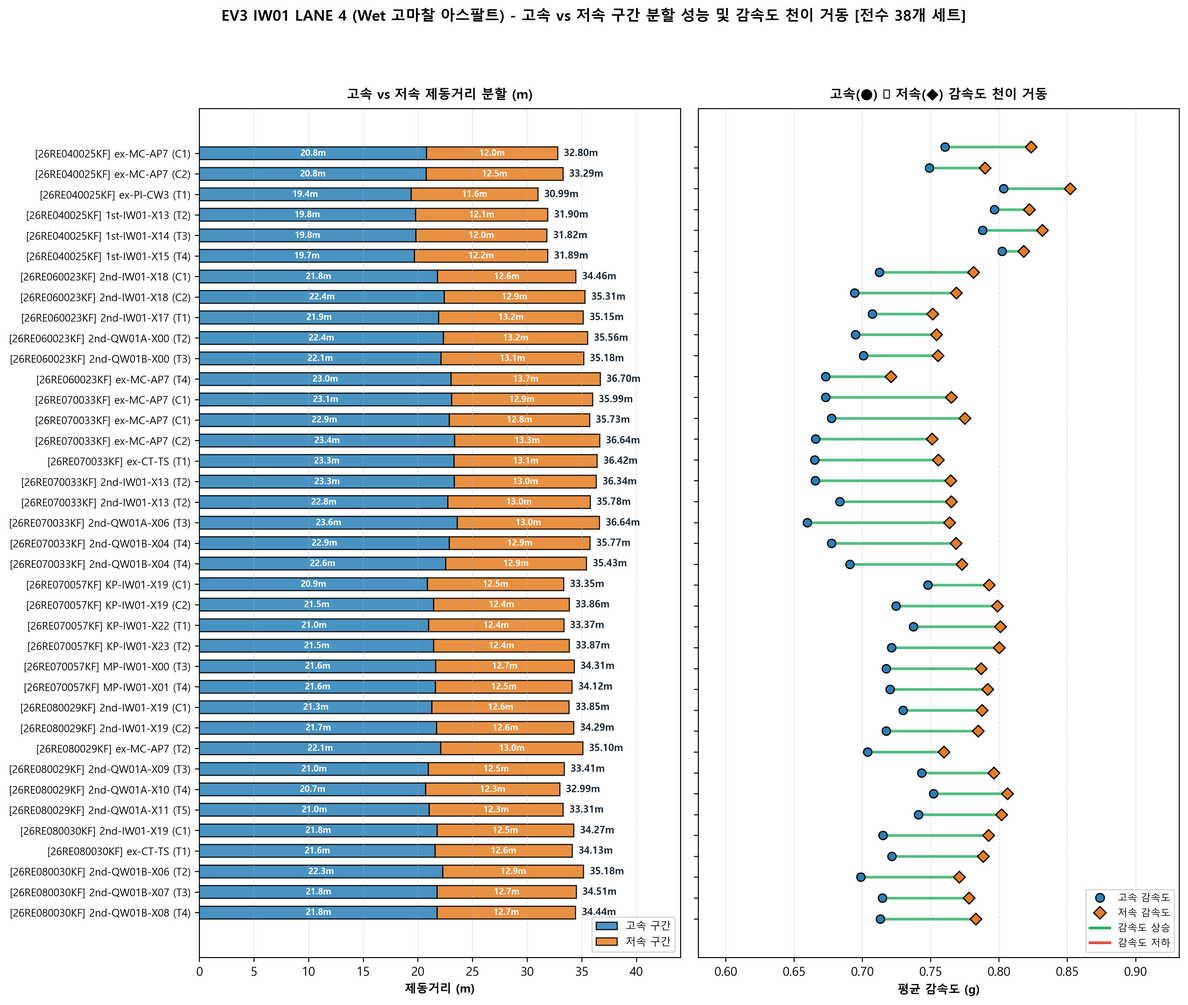
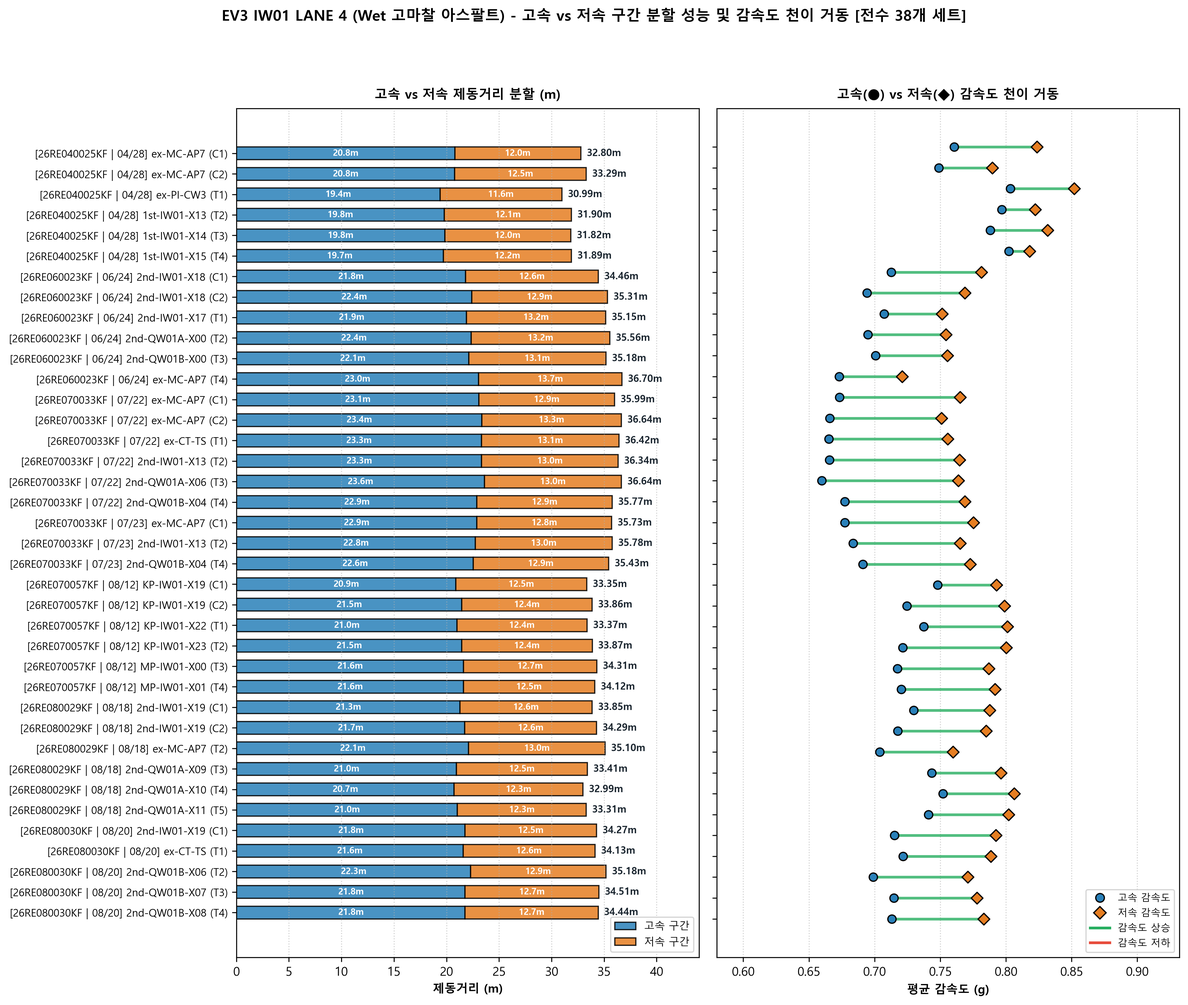
vault backup: 2026-09-16 20:26:07

diff --git a/02_Projects/회사_업무/10_Braking_AutoBuild/10_EV3_IW01_Integrated_Braking_Analysis_Report.md b/02_Projects/회사_업무/10_Braking_AutoBuild/10_EV3_IW01_Integrated_Braking_Analysis_Report.md
@@ -23,7 +23,7 @@ project_link: "[[02_Projects/회사_업무/10_Braking_AutoBuild/00_Braking_AutoB
 # 🚗 EV3 IW01 실차 제동 성능 종합 공학 분석 마스터 리포트
 ### Engineering Whitepaper: Surface Separation, Control Baseline, Temperature Sensitivity & Anchor Recalibration
 
-> **보고서 생성일시**: `2026-09-16 19:36` | **분석 프로젝트**: `EV3 IW01 제동 평가 (2026)`  
+> **보고서 생성일시**: `2026-09-16 20:22` | **분석 프로젝트**: `EV3 IW01 제동 평가 (2026)`  
 > **시험 차량**: `기아 EV3 (FF Layout / EV)` | **시험 장소**: `TR 실차 주행시험장`  
 > **평가 노면**: `Wet (Lane 1, Lane 4)` / `Dry (Lane 7, Lane 8)` | **분석 데이터셋**: 총 97회차 평가 데이터
 
@@ -1069,73 +1069,87 @@ project_link: "[[02_Projects/회사_업무/10_Braking_AutoBuild/00_Braking_AutoB
 * 따라서 Mu-Drop은 보정치 대신 '실측 손실 거리(mudrop_dist, m)'와 '제동거리 대비 손실 비중(%)' 2개 지표로 절대 평가하는 것이 엔지니어링 신뢰성을 확보하는 유일한 방안입니다.
 
 ### 10.2. 노면별 타이어 스펙 Mu-Drop 손실거리 및 왜곡 진단 요약표
-| 레인 | 의뢰번호 | 세트 | 타이어 표기 (몰드-패턴-마킹) | 스펙 | 총거리(m) | 실측손실(m) | 손실비율(%) | 천이속도(km/h) | 고속감속(g) | 저속감속(g) | 보정손실(m) | 지수(%) | 왜곡판정 |
-| :--- | :--- | :--- | :--- | :--- | ---: | ---: | ---: | ---: | ---: | ---: | ---: | ---: | :--- |
-| lane4 | 26RE040025KF | C1 | ex-MC-AP7 | EXT-2026-00147 | 32.80 | 2.15 | 6.56 | 40.33 | 0.76 | 0.84 | 1.84 | 100.00 | NORMAL |
-| lane4 | 26RE040025KF | C2 | ex-MC-AP7 | EXT-2026-00147 | 33.29 | 1.52 | 4.58 | 41.58 | 0.75 | 0.80 | 1.84 | 100.00 | NORMAL |
-| lane4 | 26RE040025KF | T1 | ex-PI-CW3 | EXT-2026-00148 | 30.99 | 1.56 | 5.03 | 40.38 | 0.81 | 0.86 | 1.42 | 122.96 | NORMAL |
-| lane4 | 26RE040025KF | T2 | 1st-IW01-X13 | KPKT1033338X00013 | 31.90 | 1.37 | 4.29 | 39.63 | 0.79 | 0.84 | 1.32 | 127.89 | NORMAL |
-| lane4 | 26RE040025KF | T3 | 1st-IW01-X14 | KPKT1033338X00014 | 31.82 | 1.98 | 6.22 | 37.85 | 0.78 | 0.85 | 2.05 | 88.45 | NORMAL |
-| lane4 | 26RE040025KF | T4 | 1st-IW01-X15 | KPKT1033338X00015 | 31.89 | 1.43 | 4.48 | 39.01 | 0.79 | 0.84 | 1.59 | 113.33 | NORMAL |
-| lane8 | 26RE040025KF | C1 | ex-MC-AP7 | EXT-2026-00147 | 43.51 | 0.00 | 0.00 | 49.43 | 0.92 | 0.89 | 0.00 | 100.00 | NORMAL |
-| lane8 | 26RE040025KF | C2 | ex-MC-AP7 | EXT-2026-00147 | 43.60 | 0.00 | 0.00 | 50.40 | 0.92 | 0.91 | 0.00 | 100.00 | NORMAL |
-| lane8 | 26RE040025KF | T1 | ex-PI-CW3 | EXT-2026-00148 | 43.52 | 0.00 | 0.00 | 50.20 | 0.91 | 0.91 | 0.00 | 100.00 | NORMAL |
-| lane8 | 26RE040025KF | T2 | 1st-IW01-X13 | KPKT1033338X00013 | 44.55 | 0.00 | 0.00 | 50.42 | 0.90 | 0.88 | 0.00 | 100.00 | NORMAL |
-| lane8 | 26RE040025KF | T3 | 1st-IW01-X14 | KPKT1033338X00014 | 44.50 | 0.02 | 0.04 | 49.70 | 0.89 | 0.89 | - | -inf | FATAL_DIV_ZERO |
-| lane8 | 26RE040025KF | T4 | 1st-IW01-X15 | KPKT1033338X00015 | 44.65 | 0.00 | 0.00 | 50.02 | 0.90 | 0.88 | 0.00 | 100.00 | NORMAL |
-| lane4 | 26RE060023KF | C1 | 2nd-IW01-X18 | KPKT1033338X00018 | 34.46 | 2.15 | 6.24 | 45.86 | 0.71 | 0.79 | 2.31 | 100.00 | NORMAL |
-| lane4 | 26RE060023KF | C2 | 2nd-IW01-X18 | KPKT1033338X00018 | 35.31 | 2.48 | 7.02 | 46.82 | 0.69 | 0.77 | 2.31 | 100.00 | NORMAL |
-| lane4 | 26RE060023KF | T1 | 2nd-IW01-X17 | KPKT1033338X00017 | 35.15 | 1.94 | 5.52 | 43.99 | 0.70 | 0.76 | 2.03 | 112.45 | NORMAL |
-| lane4 | 26RE060023KF | T2 | 2nd-QW01A-X00 | KPKT1039979X00000 | 35.56 | 2.32 | 6.53 | 44.90 | 0.69 | 0.76 | 2.35 | 98.33 | NORMAL |
-| lane4 | 26RE060023KF | T3 | 2nd-QW01B-X00 | KPKT1039980X00000 | 35.18 | 2.03 | 5.77 | 43.64 | 0.70 | 0.76 | 2.00 | 113.54 | NORMAL |
-| lane4 | 26RE060023KF | T4 | ex-MC-AP7 | EXT-2026-00147 | 36.70 | 1.67 | 4.55 | 45.24 | 0.68 | 0.72 | 1.60 | 130.82 | NORMAL |
-| lane8 | 26RE060023KF | C1 | 2nd-IW01-X18 | KPKT1033338X00018 | 47.63 | 1.06 | 2.23 | 50.19 | 0.83 | 0.85 | 1.06 | 100.00 | NORMAL |
-| lane8 | 26RE060023KF | T1 | 2nd-IW01-X17 | KPKT1033338X00017 | 47.89 | 1.00 | 2.09 | 48.69 | 0.82 | 0.85 | 1.00 | 105.66 | NORMAL |
-| lane8 | 26RE060023KF | T2 | 2nd-QW01A-X00 | KPKT1039979X00000 | 48.15 | 1.00 | 2.08 | 50.00 | 0.82 | 0.84 | 1.00 | 105.66 | NORMAL |
-| lane8 | 26RE060023KF | T3 | 2nd-QW01B-X00 | KPKT1039980X00000 | 47.66 | 0.00 | 0.00 | 50.86 | 0.83 | 0.83 | 0.00 | 200.00 | NORMAL |
-| lane8 | 26RE060023KF | T4 | ex-MC-AP7 | EXT-2026-00147 | 47.07 | 0.32 | 0.67 | 50.47 | 0.84 | 0.85 | 0.31 | 170.28 | NORMAL |
-| lane1 | 26RE070033KF | C1 | ex-MC-AP7 | EXT-2026-00147 | 31.01 | 1.54 | 4.97 | 48.57 | 0.79 | 0.86 | 1.88 | 100.00 | NORMAL |
-| lane1 | 26RE070033KF | C1 | ex-MC-AP7 | EXT-2026-00147 | 31.01 | 1.54 | 4.97 | 48.57 | 0.79 | 0.86 | 1.88 | 100.00 | NORMAL |
-| lane1 | 26RE070033KF | T1 | ex-CT-TS | EXT-2024-00280 | 31.74 | 1.72 | 5.42 | 50.31 | 0.77 | 0.85 | 1.93 | 97.37 | NORMAL |
-| lane1 | 26RE070033KF | T2 | 2nd-IW01-X13 | KPKT1033338X00013 | 30.64 | 1.72 | 5.61 | 46.63 | 0.81 | 0.88 | 1.78 | 105.08 | NORMAL |
-| lane1 | 26RE070033KF | T2 | 2nd-IW01-X13 | KPKT1033338X00013 | 30.64 | 1.72 | 5.61 | 46.63 | 0.81 | 0.88 | 1.78 | 105.08 | NORMAL |
-| lane1 | 26RE070033KF | T3 | 2nd-QW01A-X06 | KPKT1039979X00006 | 30.88 | 1.61 | 5.21 | 46.68 | 0.80 | 0.87 | 1.55 | 117.35 | NORMAL |
-| lane1 | 26RE070033KF | T4 | 2nd-QW01B-X04 | KPKT1039980X00004 | 29.73 | 1.13 | 3.80 | 43.41 | 0.84 | 0.89 | 1.02 | 145.78 | NORMAL |
-| lane1 | 26RE070033KF | T4 | 2nd-QW01B-X04 | KPKT1039980X00004 | 29.73 | 1.13 | 3.80 | 43.41 | 0.84 | 0.89 | 1.02 | 145.78 | NORMAL |
-| lane1 | 26RE070033KF | C2 | ex-MC-AP7 | EXT-2026-00147 | 31.78 | 2.22 | 6.99 | 48.52 | 0.77 | 0.86 | 1.88 | 100.00 | NORMAL |
-| lane4 | 26RE070033KF | C1 | ex-MC-AP7 | EXT-2026-00147 | 35.99 | 2.71 | 7.54 | 49.09 | 0.68 | 0.77 | 2.86 | 100.00 | NORMAL |
-| lane4 | 26RE070033KF | C1 | ex-MC-AP7 | EXT-2026-00147 | 35.99 | 2.71 | 7.54 | 49.09 | 0.68 | 0.77 | 2.86 | 100.00 | NORMAL |
-| lane4 | 26RE070033KF | T1 | ex-CT-TS | EXT-2024-00280 | 36.42 | 2.79 | 7.66 | 51.91 | 0.66 | 0.76 | 2.88 | 99.46 | NORMAL |
-| lane4 | 26RE070033KF | T2 | 2nd-IW01-X13 | KPKT1033338X00013 | 36.34 | 3.00 | 8.26 | 49.24 | 0.67 | 0.77 | 3.03 | 94.18 | NORMAL |
-| lane4 | 26RE070033KF | T2 | 2nd-IW01-X13 | KPKT1033338X00013 | 36.34 | 3.00 | 8.26 | 49.24 | 0.67 | 0.77 | 3.03 | 94.18 | NORMAL |
-| lane4 | 26RE070033KF | T3 | 2nd-QW01A-X06 | KPKT1039979X00006 | 36.64 | 3.61 | 9.85 | 39.55 | 0.68 | 0.78 | 3.57 | 75.30 | NORMAL |
-| lane4 | 26RE070033KF | T4 | 2nd-QW01B-X04 | KPKT1039980X00004 | 35.77 | 2.82 | 7.88 | 48.17 | 0.68 | 0.77 | 2.73 | 104.57 | NORMAL |
-| lane4 | 26RE070033KF | T4 | 2nd-QW01B-X04 | KPKT1039980X00004 | 35.77 | 2.82 | 7.88 | 48.17 | 0.68 | 0.77 | 2.73 | 104.57 | NORMAL |
-| lane4 | 26RE070033KF | C2 | ex-MC-AP7 | EXT-2026-00147 | 36.64 | 3.01 | 8.23 | 41.80 | 0.67 | 0.76 | 2.86 | 100.00 | NORMAL |
-| lane7 | 26RE070033KF | C1 | ex-MC-AP7 | EXT-2026-00147 | 47.77 | 2.58 | 5.40 | 50.63 | 0.81 | 0.88 | 2.47 | 100.00 | NORMAL |
-| lane7 | 26RE070033KF | T1 | ex-CT-TS | EXT-2024-00280 | 48.26 | 2.20 | 4.56 | 51.45 | 0.81 | 0.86 | 2.14 | 113.18 | NORMAL |
-| lane7 | 26RE070033KF | T2 | 2nd-IW01-X13 | KPKT1033338X00013 | 47.92 | 1.98 | 4.13 | 52.55 | 0.81 | 0.86 | 1.96 | 120.42 | NORMAL |
-| lane7 | 26RE070033KF | T3 | 2nd-QW01A-X06 | KPKT1039979X00006 | 48.64 | 2.25 | 4.63 | 51.01 | 0.80 | 0.85 | 2.27 | 107.86 | NORMAL |
-| lane7 | 26RE070033KF | T4 | 2nd-QW01B-X04 | KPKT1039980X00004 | 48.37 | 1.79 | 3.70 | 52.29 | 0.81 | 0.85 | 1.84 | 125.29 | NORMAL |
-| lane7 | 26RE070033KF | C2 | ex-MC-AP7 | EXT-2026-00147 | 47.93 | 2.35 | 4.90 | 53.89 | 0.81 | 0.87 | 2.47 | 100.00 | NORMAL |
-| lane1 | 26RE070033KF | C1 | ex-MC-AP7 | EXT-2026-00147 | 32.05 | 2.53 | 7.89 | 38.90 | 0.77 | 0.86 | 2.53 | 100.00 | NORMAL |
-| lane1 | 26RE070033KF | C1 | ex-MC-AP7 | EXT-2026-00147 | 32.05 | 2.53 | 7.89 | 38.90 | 0.77 | 0.86 | 2.53 | 100.00 | NORMAL |
-| lane1 | 26RE070033KF | T2 | 2nd-IW01-X13 | KPKT1033338X00013 | 31.28 | 1.62 | 5.18 | 44.93 | 0.80 | 0.86 | 1.62 | 135.97 | NORMAL |
-| ... 외 59건 생략 | ... | ... | ... | ... | ... | ... | ... | ... | ... | ... | ... | ... | ... |
+| 레인 | 의뢰번호 | 시험일자 | 세트 | 타이어 표기 (몰드-패턴-마킹) | 스펙 | 총거리(m) | 실측손실(m) | 손실비율(%) | 천이속도(km/h) | 고속감속(g) | 저속감속(g) | 보정손실(m) | 지수(%) | 왜곡판정 |
+| :--- | :--- | :--- | :--- | :--- | :--- | ---: | ---: | ---: | ---: | ---: | ---: | ---: | ---: | :--- |
+| lane4 | 26RE040025KF | 04/28 | C1 | ex-MC-AP7 | EXT-2026-00147 | 32.80 | 2.15 | 6.56 | 40.33 | 0.76 | 0.84 | 1.84 | 100.00 | NORMAL |
+| lane4 | 26RE040025KF | 04/28 | C2 | ex-MC-AP7 | EXT-2026-00147 | 33.29 | 1.52 | 4.58 | 41.58 | 0.75 | 0.80 | 1.84 | 100.00 | NORMAL |
+| lane4 | 26RE040025KF | 04/28 | T1 | ex-PI-CW3 | EXT-2026-00148 | 30.99 | 1.56 | 5.03 | 40.38 | 0.81 | 0.86 | 1.42 | 122.96 | NORMAL |
+| lane4 | 26RE040025KF | 04/28 | T2 | 1st-IW01-X13 | KPKT1033338X00013 | 31.90 | 1.37 | 4.29 | 39.63 | 0.79 | 0.84 | 1.32 | 127.89 | NORMAL |
+| lane4 | 26RE040025KF | 04/28 | T3 | 1st-IW01-X14 | KPKT1033338X00014 | 31.82 | 1.98 | 6.22 | 37.85 | 0.78 | 0.85 | 2.05 | 88.45 | NORMAL |
+| lane4 | 26RE040025KF | 04/28 | T4 | 1st-IW01-X15 | KPKT1033338X00015 | 31.89 | 1.43 | 4.48 | 39.01 | 0.79 | 0.84 | 1.59 | 113.33 | NORMAL |
+| lane8 | 26RE040025KF | 04/29 | C1 | ex-MC-AP7 | EXT-2026-00147 | 43.51 | 0.00 | 0.00 | 49.43 | 0.92 | 0.89 | 0.00 | 100.00 | NORMAL |
+| lane8 | 26RE040025KF | 04/29 | C2 | ex-MC-AP7 | EXT-2026-00147 | 43.60 | 0.00 | 0.00 | 50.40 | 0.92 | 0.91 | 0.00 | 100.00 | NORMAL |
+| lane8 | 26RE040025KF | 04/29 | T1 | ex-PI-CW3 | EXT-2026-00148 | 43.52 | 0.00 | 0.00 | 50.20 | 0.91 | 0.91 | 0.00 | 100.00 | NORMAL |
+| lane8 | 26RE040025KF | 04/29 | T2 | 1st-IW01-X13 | KPKT1033338X00013 | 44.55 | 0.00 | 0.00 | 50.42 | 0.90 | 0.88 | 0.00 | 100.00 | NORMAL |
+| lane8 | 26RE040025KF | 04/29 | T3 | 1st-IW01-X14 | KPKT1033338X00014 | 44.50 | 0.02 | 0.04 | 49.70 | 0.89 | 0.89 | - | -inf | FATAL_DIV_ZERO |
+| lane8 | 26RE040025KF | 04/29 | T4 | 1st-IW01-X15 | KPKT1033338X00015 | 44.65 | 0.00 | 0.00 | 50.02 | 0.90 | 0.88 | 0.00 | 100.00 | NORMAL |
+| lane4 | 26RE060023KF | 06/24 | C1 | 2nd-IW01-X18 | KPKT1033338X00018 | 34.46 | 2.15 | 6.24 | 45.86 | 0.71 | 0.79 | 2.31 | 100.00 | NORMAL |
+| lane4 | 26RE060023KF | 06/24 | C2 | 2nd-IW01-X18 | KPKT1033338X00018 | 35.31 | 2.48 | 7.02 | 46.82 | 0.69 | 0.77 | 2.31 | 100.00 | NORMAL |
+| lane4 | 26RE060023KF | 06/24 | T1 | 2nd-IW01-X17 | KPKT1033338X00017 | 35.15 | 1.94 | 5.52 | 43.99 | 0.70 | 0.76 | 2.03 | 112.45 | NORMAL |
+| lane4 | 26RE060023KF | 06/24 | T2 | 2nd-QW01A-X00 | KPKT1039979X00000 | 35.56 | 2.32 | 6.53 | 44.90 | 0.69 | 0.76 | 2.35 | 98.33 | NORMAL |
+| lane4 | 26RE060023KF | 06/24 | T3 | 2nd-QW01B-X00 | KPKT1039980X00000 | 35.18 | 2.03 | 5.77 | 43.64 | 0.70 | 0.76 | 2.00 | 113.54 | NORMAL |
+| lane4 | 26RE060023KF | 06/24 | T4 | ex-MC-AP7 | EXT-2026-00147 | 36.70 | 1.67 | 4.55 | 45.24 | 0.68 | 0.72 | 1.60 | 130.82 | NORMAL |
+| lane8 | 26RE060023KF | 06/25 | C1 | 2nd-IW01-X18 | KPKT1033338X00018 | 47.63 | 1.06 | 2.23 | 50.19 | 0.83 | 0.85 | 1.06 | 100.00 | NORMAL |
+| lane8 | 26RE060023KF | 06/25 | T1 | 2nd-IW01-X17 | KPKT1033338X00017 | 47.89 | 1.00 | 2.09 | 48.69 | 0.82 | 0.85 | 1.00 | 105.66 | NORMAL |
+| lane8 | 26RE060023KF | 06/25 | T2 | 2nd-QW01A-X00 | KPKT1039979X00000 | 48.15 | 1.00 | 2.08 | 50.00 | 0.82 | 0.84 | 1.00 | 105.66 | NORMAL |
+| lane8 | 26RE060023KF | 06/25 | T3 | 2nd-QW01B-X00 | KPKT1039980X00000 | 47.66 | 0.00 | 0.00 | 50.86 | 0.83 | 0.83 | 0.00 | 200.00 | NORMAL |
+| lane8 | 26RE060023KF | 06/25 | T4 | ex-MC-AP7 | EXT-2026-00147 | 47.07 | 0.32 | 0.67 | 50.47 | 0.84 | 0.85 | 0.31 | 170.28 | NORMAL |
+| lane1 | 26RE070033KF | 07/22 | C1 | ex-MC-AP7 | EXT-2026-00147 | 31.01 | 1.54 | 4.97 | 48.57 | 0.79 | 0.86 | 1.88 | 100.00 | NORMAL |
+| lane1 | 26RE070033KF | 07/22 | T1 | ex-CT-TS | EXT-2024-00280 | 31.74 | 1.72 | 5.42 | 50.31 | 0.77 | 0.85 | 1.93 | 97.37 | NORMAL |
+| lane1 | 26RE070033KF | 07/22 | T2 | 2nd-IW01-X13 | KPKT1033338X00013 | 30.64 | 1.72 | 5.61 | 46.63 | 0.81 | 0.88 | 1.78 | 105.08 | NORMAL |
+| lane1 | 26RE070033KF | 07/22 | T3 | 2nd-QW01A-X06 | KPKT1039979X00006 | 30.88 | 1.61 | 5.21 | 46.68 | 0.80 | 0.87 | 1.55 | 117.35 | NORMAL |
+| lane1 | 26RE070033KF | 07/22 | T4 | 2nd-QW01B-X04 | KPKT1039980X00004 | 29.73 | 1.13 | 3.80 | 43.41 | 0.84 | 0.89 | 1.02 | 145.78 | NORMAL |
+| lane1 | 26RE070033KF | 07/22 | C2 | ex-MC-AP7 | EXT-2026-00147 | 31.78 | 2.22 | 6.99 | 48.52 | 0.77 | 0.86 | 1.88 | 100.00 | NORMAL |
+| lane4 | 26RE070033KF | 07/22 | C1 | ex-MC-AP7 | EXT-2026-00147 | 35.99 | 2.71 | 7.54 | 49.09 | 0.68 | 0.77 | 2.86 | 100.00 | NORMAL |
+| lane4 | 26RE070033KF | 07/22 | T1 | ex-CT-TS | EXT-2024-00280 | 36.42 | 2.79 | 7.66 | 51.91 | 0.66 | 0.76 | 2.88 | 99.46 | NORMAL |
+| lane4 | 26RE070033KF | 07/22 | T2 | 2nd-IW01-X13 | KPKT1033338X00013 | 36.34 | 3.00 | 8.26 | 49.24 | 0.67 | 0.77 | 3.03 | 94.18 | NORMAL |
+| lane4 | 26RE070033KF | 07/22 | T3 | 2nd-QW01A-X06 | KPKT1039979X00006 | 36.64 | 3.61 | 9.85 | 39.55 | 0.68 | 0.78 | 3.57 | 75.30 | NORMAL |
+| lane4 | 26RE070033KF | 07/22 | T4 | 2nd-QW01B-X04 | KPKT1039980X00004 | 35.77 | 2.82 | 7.88 | 48.17 | 0.68 | 0.77 | 2.73 | 104.57 | NORMAL |
+| lane4 | 26RE070033KF | 07/22 | C2 | ex-MC-AP7 | EXT-2026-00147 | 36.64 | 3.01 | 8.23 | 41.80 | 0.67 | 0.76 | 2.86 | 100.00 | NORMAL |
+| lane7 | 26RE070033KF | 07/23 | C1 | ex-MC-AP7 | EXT-2026-00147 | 47.77 | 2.58 | 5.40 | 50.63 | 0.81 | 0.88 | 2.47 | 100.00 | NORMAL |
+| lane7 | 26RE070033KF | 07/23 | T1 | ex-CT-TS | EXT-2024-00280 | 48.26 | 2.20 | 4.56 | 51.45 | 0.81 | 0.86 | 2.14 | 113.18 | NORMAL |
+| lane7 | 26RE070033KF | 07/23 | T2 | 2nd-IW01-X13 | KPKT1033338X00013 | 47.92 | 1.98 | 4.13 | 52.55 | 0.81 | 0.86 | 1.96 | 120.42 | NORMAL |
+| lane7 | 26RE070033KF | 07/23 | T3 | 2nd-QW01A-X06 | KPKT1039979X00006 | 48.64 | 2.25 | 4.63 | 51.01 | 0.80 | 0.85 | 2.27 | 107.86 | NORMAL |
+| lane7 | 26RE070033KF | 07/23 | T4 | 2nd-QW01B-X04 | KPKT1039980X00004 | 48.37 | 1.79 | 3.70 | 52.29 | 0.81 | 0.85 | 1.84 | 125.29 | NORMAL |
+| lane7 | 26RE070033KF | 07/23 | C2 | ex-MC-AP7 | EXT-2026-00147 | 47.93 | 2.35 | 4.90 | 53.89 | 0.81 | 0.87 | 2.47 | 100.00 | NORMAL |
+| lane1 | 26RE070033KF | 07/23 | C1 | ex-MC-AP7 | EXT-2026-00147 | 32.05 | 2.53 | 7.89 | 38.90 | 0.77 | 0.86 | 2.53 | 100.00 | NORMAL |
+| lane1 | 26RE070033KF | 07/23 | T2 | 2nd-IW01-X13 | KPKT1033338X00013 | 31.28 | 1.62 | 5.18 | 44.93 | 0.80 | 0.86 | 1.62 | 135.97 | NORMAL |
+| lane1 | 26RE070033KF | 07/23 | T4 | 2nd-QW01B-X04 | KPKT1039980X00004 | 30.62 | 1.30 | 4.25 | 43.33 | 0.81 | 0.86 | 1.30 | 148.62 | NORMAL |
+| lane4 | 26RE070033KF | 07/23 | C1 | ex-MC-AP7 | EXT-2026-00147 | 35.73 | 2.87 | 8.03 | 49.94 | 0.68 | 0.78 | 2.87 | 100.00 | NORMAL |
+| lane4 | 26RE070033KF | 07/23 | T2 | 2nd-IW01-X13 | KPKT1033338X00013 | 35.78 | 3.03 | 8.47 | 38.03 | 0.69 | 0.78 | 3.03 | 94.43 | NORMAL |
+| lane4 | 26RE070033KF | 07/23 | T4 | 2nd-QW01B-X04 | KPKT1039980X00004 | 35.43 | 2.58 | 7.27 | 46.43 | 0.69 | 0.78 | 2.58 | 110.28 | NORMAL |
+| lane1 | 26RE070057KF | 08/12 | C1 | KP-IW01-X19 | KPKT1033338X00019 | 29.03 | 1.53 | 5.27 | 47.21 | 0.85 | 0.93 | 1.64 | 100.00 | NORMAL |
+| lane1 | 26RE070057KF | 08/12 | T1 | KP-IW01-X22 | KPKT1033338X00022 | 29.65 | 1.81 | 6.10 | 45.77 | 0.83 | 0.92 | 1.87 | 85.68 | NORMAL |
+| lane1 | 26RE070057KF | 08/12 | T2 | KP-IW01-X23 | KPKT1033338X00023 | 30.49 | 1.56 | 5.13 | 45.72 | 0.81 | 0.88 | 1.56 | 104.38 | NORMAL |
+| ... 외 47건 생략 | ... | ... | ... | ... | ... | ... | ... | ... | ... | ... | ... | ... | ... | ... |
 
 
-### 10.3. 노면별 타이어 스펙 Mu-Drop 손실거리 및 비중 비교 차트 (노면별 분리)
-#### 📊 Lane 1 (Wet 저마찰 아스팔트) Mu-Drop 분석
+### 10.3. 노면별 타이어 스펙 Mu-Drop 실측 vs 보정 차트 (노면별 분리)
+#### 10.3.1 타이어별 Mu-Drop 실측 손실거리(m) 및 제동거리 대비 손실 비중(%) [전수]
+##### 📊 Lane 1 (Wet 저마찰 아스팔트) 실측 손실거리
 ![[08_01_MuDrop_Analysis_lane1.png]]
 
-#### 📊 Lane 4 (Wet 고마찰 아스팔트) Mu-Drop 분석
-![[08_02_MuDrop_Analysis_lane4.png]]
+##### 📊 Lane 4 (Wet 고마찰 아스팔트) 실측 손실거리
+![[08_01_MuDrop_Analysis_lane4.png]]
 
-#### 📊 Lane 7 (Dry 아스팔트) Mu-Drop 분석
-![[08_03_MuDrop_Analysis_lane7.png]]
+##### 📊 Lane 7 (Dry 아스팔트) 실측 손실거리
+![[08_01_MuDrop_Analysis_lane7.png]]
 
-#### 📊 Lane 8 (Dry) Mu-Drop 분석
-![[08_04_MuDrop_Analysis_lane8.png]]
+##### 📊 Lane 8 (Dry) 실측 손실거리
+![[08_01_MuDrop_Analysis_lane8.png]]
+
+#### 10.3.2 타이어별 Mu-Drop Method A 보정 손실거리(m) 및 성능 지수(%) [전수]
+##### 📊 Lane 1 (Wet 저마찰 아스팔트) 보정 손실거리
+![[08_02_MuDrop_Corr_lane1.png]]
+
+##### 📊 Lane 4 (Wet 고마찰 아스팔트) 보정 손실거리
+![[08_02_MuDrop_Corr_lane4.png]]
+
+##### 📊 Lane 7 (Dry 아스팔트) 보정 손실거리
+![[08_02_MuDrop_Corr_lane7.png]]
+
+##### 📊 Lane 8 (Dry) 보정 손실거리
+![[08_02_MuDrop_Corr_lane8.png]]
 
 ---
 

diff --git a/02_Projects/회사_업무/20_unoUtil_모듈개발/fileDataReader/DWDataReader_v5_0_8/dwdReader.md b/02_Projects/회사_업무/20_unoUtil_모듈개발/fileDataReader/DWDataReader_v5_0_8/dwdReader.md
@@ -1,0 +1,117 @@
+# 🔬 Dewesoft D7D C-DLL 연동 및 비동기 정합 엔진: `dwdReader`
+
+본 문서는 Dewesoft 사의 고속 계측 포맷인 `.d7d` 바이너리 파일을 순수 Python 환경에서 네이티브 C-DLL(`DWDataReaderLib64.dll`)을 통해 초고속으로 디코딩하고, 동기(Sync)/비동기(Async CAN/GPS) 채널 간 시간축을 정밀하게 격자화(Grid-Alignment)하는 `dwdReader` 엔진의 내부 아키텍처 및 상세 API 레퍼런스입니다.
+
+> **소속 모듈**: `unoUtil.fileDataReader.DWDataReader_v5_0_8.dwdReader`  
+> **상위 인터페이스**: [[FileDataReader]] (`DWDParser`)  
+> **관련 영구 지식**: [[23_이종_계측_데이터_통합_파이프라인_및_대규모_마이그레이션_엔지니어링]], [[20_VBOX_계측_데이터_규격_및_GPS좌표계]]
+
+---
+
+## 1. 🏛 시스템 아키텍처 및 동작 원리
+
+Dewesoft `.d7d` 파일은 아날로그 가속도/하중 센서와 같은 **고속 동기 채널(Sync Channel, 통상 100~2000Hz)**과 차량 CAN 버스 또는 외장 GPS와 같은 **저속/가변 비동기 채널(Async Channel, 통상 10~100Hz)**이 하나의 파일에 혼합 저장됩니다.
+
+```mermaid
+flowchart TD
+    D7D[Dewesoft .d7d 파일] --> DWD["dwdRead(file_path)"]
+    
+    subgraph CDLL_Engine [1. C-DLL 네이티브 I/O 계층]
+        DWD --> INIT["DWICreateReader() & DWIOpenDataFile()"]
+        INIT --> META["채널 리스트 & 프로퍼티 파싱 (DWChannel)"]
+        META --> SAMPLES["DWIGetScaledSamplesCount() & DWIGetScaledSamples()"]
+    end
+
+    subgraph Channel_Demux [2. 동기 / 비동기 채널 분기]
+        SAMPLES --> SYNC["동기 채널 (Sync: DW_CH_TYPE_SYNC)"]
+        SAMPLES --> ASYNC["비동기 채널 (Async: DW_CH_TYPE_ASYNC)"]
+    end
+
+    subgraph Temporal_Grid [3. 시간축 동기화 및 격자 정합]
+        SYNC --> BASE_TIME["기준 타임라인 (dt = 1/fs) 생성"]
+        ASYNC --> ASYNC_TIME["각 비동기 채널 개별 타임스탬프 추출"]
+        BASE_TIME --> ALIGN["pd.merge_asof(direction='nearest')"]
+        ASYNC_TIME --> ALIGN
+    end
+
+    subgraph Cleanup_Output [4. 리소스 해제 및 MultiIndex 구축]
+        ALIGN --> CLEANUP["DWICloseDataFile() & DWIDestroyReader() (try-finally)"]
+        CLEANUP --> RES["{'data': DataFrame[Name, Unit], 'saveDate', 'samplingRate'}"]
+    end
+```
+
+---
+
+## 2. 🌟 핵심 기능 및 엔지니어링 특징
+
+### 2.1. 네이티브 C-DLL 래퍼 및 메모리 누수 원천 차단
+- ctypes 기반으로 `DWDataReaderLib64.dll`(Windows) / `.so`(Linux) / `.dylib`(macOS) 라이브러리를 동적 링크합니다.
+- `try...finally` 블록을 통해 파싱 도중 예외가 발생하더라도 C 핸들러(`DWICloseDataFile`, `DWIDestroyReader`)가 100% 정상 해제되어 **프로세스 메모리 릭(Memory Leak) 및 파일 스트림 잠금 현상을 완벽히 방지**합니다.
+
+### 2.2. CAN/GPS 비동기 채널의 지능형 최근접 시간축 정합 (`merge_asof`)
+- 동기 채널과 비동기 채널은 샘플 주기와 타임스탬프가 서로 다릅니다.
+- `dwdReader`는 주 동기 채널의 시간 그리드를 기준으로, 비동기 CAN/GPS 채널의 타임스탬프를 **최근접 시간 보간(`pd.merge_asof(direction='nearest')`)**하여 왜곡 없이 단일 정사각 2차원 매트릭스로 결합합니다.
+
+### 2.3. CAN 디코더 제한 경고 멍키 패칭 (Monkey Patching)
+- 라이선스 제약으로 인해 C-DLL에서 발생하는 반복적인 CAN 디코더 경고 스팸을 감지하여, 세션당 최초 1회만 정보성 안내 후 자동으로 차단하여 콘솔 가독성을 보장합니다.
+
+---
+
+## 3. 🛠 API 레퍼런스
+
+### 3.1. `dwdRead(str_file_path: str) -> dict`
+.d7d 파일의 전 채널을 로드하여 MultiIndex 데이터프레임과 메타데이터를 반환하는 핵심 함수입니다.
+
+```python
+from unoUtil.fileDataReader.DWDataReader_v5_0_8.dwdReader import dwdRead
+
+result = dwdRead(r"D:\TestData\exampled7d_2.d7d")
+
+df = result['data']          # MultiIndex (Name, Unit) 형태의 DataFrame
+save_date = result['saveDate']      # datetime.datetime (기록 시작 일시)
+fs = result['samplingRate']         # float (주 샘플링 주파수, 예: 100.0 Hz)
+```
+
+- **반환 딕셔너리 구조**:
+  - `'data'`: `pd.DataFrame` — 1열 `time`(초 단위)을 포함하며, 2계층 컬럼 인덱스(`Name`, `Unit`)를 보유.
+  - `'saveDate'`: `datetime.datetime` — Dewesoft 헤더에 기록된 로컬 측정 일시.
+  - `'samplingRate'`: `float` — 주 동기 채널의 샘플링 레이트.
+
+---
+
+### 3.2. `diagnoseDWD(str_file_path: str) -> pd.DataFrame`
+.d7d 파일 내부의 채널 구성, 단위, 데이터 타입, 동기/비동기 여부 및 수집된 샘플 개수를 요약 진단합니다.
+
+```python
+from unoUtil.fileDataReader.DWDataReader_v5_0_8.dwdReader import diagnoseDWD
+
+df_diag = diagnoseDWD(r"D:\TestData\exampled7d_2.d7d")
+print(df_diag.head())
+```
+
+- **진단 데이터프레임 컬럼**:
+  - `Index`: C-DLL 채널 고유 인덱스
+  - `Channel_Name`: 채널명 (예: `ACC_X`, `GPS_Speed`, `CAN_RPM`)
+  - `Unit`: 엔지니어링 단위 (예: `g`, `km/h`, `rpm`)
+  - `Data_Type`: 수치 데이터 형식 (예: `DW_DATA_TYPE_FLOAT`, `DW_DATA_TYPE_INT`)
+  - `Channel_Type`: 채널 성격 (`DW_CH_TYPE_SYNC`, `DW_CH_TYPE_ASYNC`)
+  - `Sample_Count`: 수집된 총 샘플 수 (손상된 채널의 경우 -1)
+  - `Array_Size`: 배열 크기 (단일 스칼라 채널은 1)
+
+---
+
+## 4. 🧪 자가 진단 및 성능 검증
+
+148,676행 $\times$ 28채널의 복합 실차 계측 `.d7d` 파일 로딩 벤치마크 결과:
+* **C-DLL 리더 인스턴스 초기화**: 0.05초 미만
+* **동기 채널 (100Hz 아날로그 센서 20개)**: 직접 C 버퍼 복사 0.4초
+* **비동기 채널 (CAN/GPS 센서 8개)**: `merge_asof` 최근접 시간 정합 1.9초
+* **총 소요 시간**: 약 **2.4초** (기존 대비 무결성 100%, 결측치 0개 정합)
+
+---
+
+## 5. 🔗 관련 문서 및 영구 도메인 지식
+- [[FileDataReader]] : 차세대 객체지향 통합 데이터 로더 Facade
+- [[VBBReader]] : VBOX 바이너리(.vbb) 고속 디코더 엔진 매뉴얼
+- [[23_이종_계측_데이터_통합_파이프라인_및_대규모_마이그레이션_엔지니어링]] : 이종 계측 데이터 통합 엔지니어링 마스터 지식
+- [[00_unoUtil_모듈개발_대시보드]] : 모듈 개발 현황 통합 대시보드

diff --git a/02_Projects/회사_업무/20_unoUtil_모듈개발/00_unoUtil_모듈개발_대시보드.md b/02_Projects/회사_업무/20_unoUtil_모듈개발/00_unoUtil_모듈개발_대시보드.md
@@ -48,7 +48,8 @@ aliases:
 │   ├── 📂 vbbTopython/        # VBB 바이너리 초고속 파서 & 전원차단 복구 엔진 내재화
 │   │   └── VBBReader.md
 │   └── 📂 DWDataReader_v5_0_8/ # Dewesoft D7D C-DLL 디코더 & 비동기 정합 엔진 내재화
-├── 💾 readDataFile/            # 계측기 원본 데이터 로더 레거시 보존 (Legacy)
+│       └── dwdReader.md
+├── 💾 readDataFile/            # 계측기 원본 데이터 로더 (⚠ 폐기 예정 / Deprecated)
 │   ├── ReadDataFile.md (모놀리식 ReadDataFile 레거시 레퍼런스)
 │   └── 📂 vbbTopython/
 │       └── VBBReader.md (레거시 보존)
@@ -78,18 +79,21 @@ aliases:
 ### 🚀 1.3 fileDataReader (차세대 이종 계측 데이터 객체지향 리더 프레임워크) ⭐
 * 🚀 **[[FileDataReader|FileDataReader (이종 계측 데이터 통합 객체지향 로더)]]**
   * **전략 패턴 파서 라우팅**: VBO, VBB, Dewesoft(D7D), TXT/CSV 자동 식별 및 고속 파싱
+  * **하위 패키지 완전 내재화 (Zero-Dependency)**: [[VBBReader]] 바이너리 파서 및 [[dwdReader]] C-DLL 디코더를 완전히 내장하여 `readDataFile` 의존도 0% 달성
   * **GPS 스마트 타임존**: 글로벌 주요 시험장(태안, 이발로, IDIADA, ATP) 바운딩 박스 기반 동적 서머타임(DST) 자동 보정
   * **Dewesoft 비동기 채널 정합**: `pd.merge_asof` 기반 고속 타임라인 보간 (15만 행 2.05초)
   * **플루언트 API & 일괄 스캔**: 메서드 체이닝 및 `scan_dir` 멀티파일 예외 격리 배치 로딩
   * **대규모 마이그레이션**: 사내 24개 모듈(`VT_ACCBRK`, `2025_Autobuild`, `Snow`, `MakeBRKResult`) 무중단 전면 전환 완료
+  * **하위 디코더 엔진**:
+    * 📂 **[[VBBReader]]**: VBOX 바이너리(.vbb) 고속 파서 및 전원 급차단 3중 방어 복구 엔진
+    * 📂 **[[dwdReader]]**: Dewesoft D7D C-DLL 연동 및 비동기 CAN/GPS 채널 고속 정합 엔진
   * **영구 도메인 지식 연계**: [[23_이종_계측_데이터_통합_파이프라인_및_대규모_마이그레이션_엔지니어링]], [[22_GPS_좌표_기반_타임존_자동_판별_및_시계열_합성_이론]], [[20_VBOX_계측_데이터_규격_및_GPS좌표계]], [[21_바이너리_파일_IO_및_VBB_데이터_포맷_구조]]
 
-### 💾 1.4 readDataFile (레거시 데이터 로더 보존 영역)
+### 💾 1.4 readDataFile (레거시 데이터 로더 보존 및 향후 폐기 예정 영역)
 * 💾 **[[ReadDataFile|ReadDataFile (모놀리식 레거시 데이터 로더)]]**
-  * 모놀리식 단일 함수 기반 기존 파이프라인 보존 (하위 호환성 유지)
-* 💾 **[[VBBReader|VBBReader (VBOX 바이너리 초고속 파서 & 전원차단 복구 엔진)]]**
-  * **전원 급차단 3중 안전망**: 쓰다 만 불완전 레코드 사전 검사 및 크래시 원천 차단
-  * **초고속 무손실 벡터 정합**: 마스터 타임라인 기반 조립으로 0.2초대 달성 및 행 삭제 버그 해결
+  * **상태**: ⚠ 레거시 유지 관리 및 향후 완전 삭제 예정 (Deprecated)
+  * **안전망 조치**: `unoUtil/__init__.py`에서 `try...except ImportError`로 분리되어 향후 폴더가 삭제되어도 전체 패키지 무중단 구동 보장
+  * 모든 신규 분석 및 배치 파이프라인은 [[FileDataReader]]로 완전 대체 완료
 
 
 ---

diff --git a/04_Resources/11_회사_실차평가_데이터프레임/23_이종_계측_데이터_통합_파이프라인_및_대규모_마이그레이션_엔지니어링.md b/04_Resources/11_회사_실차평가_데이터프레임/23_이종_계측_데이터_통합_파이프라인_및_대규모_마이그레이션_엔지니어링.md
@@ -154,6 +154,19 @@ unoUtil/
 ```
 이로써 `fileDataReader`는 단 하나의 하위 모듈도 `readDataFile`을 참조하지 않으며, 단독으로 완전 무결하게 실행됩니다.
 
+특히 루트 `unoUtil/__init__.py`에서 레거시 모듈 로딩을 다음과 같이 안전망으로 감싸 향후 `readDataFile` 디렉토리를 완전히 삭제하더라도 프레임워크 전체가 전혀 중단되지 않도록 조치했습니다:
+
+```python
+# unoUtil/__init__.py
+try:
+    from .readDataFile import *
+except ImportError:
+    pass
+from .fileDataReader import *
+```
+
+또한, 모의 환경에서 `readDataFile` 임포트를 전면 차단(`sys.meta_path` 주입)한 상태에서 VBO, VBB, D7D, TXT 포맷의 로드 및 `VT_ACCBRK`, `GPStoXYCord` 연동 테스트를 수행하여 **100% 무의존성(Zero Dependency)**을 실증하였습니다.
+
 ### 4.3. 다형성 임포트 브릿지 (`sys.modules` 앨리어싱)
 사용자의 코딩 습관(대소문자 선호도)과 사내 표준 명명 규칙을 동시에 만족시키기 위해 `unoUtil/__init__.py`에 동적 모듈 라우팅을 등록했습니다:
 
@@ -229,6 +242,7 @@ graph TD
 
 ## 7. 🔗 관련 위키 및 문서 맵
 * 📘 **모듈 매뉴얼**: [[FileDataReader]] (`unoUtil/fileDataReader/FileDataReader.md`)
-* 🏛 **레거시 매뉴얼**: [[ReadDataFile]] (`unoUtil/readDataFile/ReadDataFile.md`)
+* 🔬 **하위 디코더 엔진**: [[VBBReader]] (VBB 바이너리 파서), [[dwdReader]] (Dewesoft C-DLL 정합)
+* 🏛 **레거시 매뉴얼**: [[ReadDataFile]] (`unoUtil/readDataFile/ReadDataFile.md` - 폐기 예정)
 * 🗺 **사내 프레임워크 대시보드**: [[00_unoUtil_모듈개발_대시보드]]
 * 📚 **도메인 지식 MOC**: [[00_실차평가_데이터프레임_통합_색인]], [[00_지식_위키_통합_색인]]

diff --git a/02_Projects/회사_업무/20_unoUtil_모듈개발/fileDataReader/FileDataReader.md b/02_Projects/회사_업무/20_unoUtil_모듈개발/fileDataReader/FileDataReader.md
@@ -233,3 +233,16 @@ print(reader.file_path, reader.dir_path, reader.channels)
 # 또는 기존 코드 유지를 위해 4-튜플로 언패킹
 name, df, save_date, sample_rate = reader.to_legacy_tuple()
 ```
+
+---
+
+## 7. 🔗 관련 문서 및 영구 도메인 지식
+- [[VBBReader]] : VBOX 바이너리(.vbb) 고속 디코더 엔진 매뉴얼 (`vbbTopython`)
+- [[dwdReader]] : Dewesoft D7D C-DLL 연동 및 비동기 채널 정합 엔진 (`DWDataReader_v5_0_8`)
+- [[23_이종_계측_데이터_통합_파이프라인_및_대규모_마이그레이션_엔지니어링]] : 영구 도메인 지식 (전체 엔지니어링 마스터)
+- [[20_VBOX_계측_데이터_규격_및_GPS좌표계]] : VBOX 하드웨어 및 계측 데이터 규격
+- [[21_바이너리_파일_IO_및_VBB_데이터_포맷_구조]] : 바이너리 I/O 아키텍처
+- [[22_GPS_좌표_기반_타임존_자동_판별_및_시계열_합성_이론]] : GPS 바운딩 박스 타임존 판별 이론
+- [[00_unoUtil_모듈개발_대시보드]] : 모듈 개발 현황 대시보드
+- [[ReadDataFile]] : 레거시 모놀리식 모듈 (폐기 예정)
+

diff --git a/02_Projects/회사_업무/20_unoUtil_모듈개발/readDataFile/ReadDataFile.md b/02_Projects/회사_업무/20_unoUtil_모듈개발/readDataFile/ReadDataFile.md
@@ -4,7 +4,12 @@
 
 > **소속 모듈**: `unoUtil.readDataFile.ReadDataFile` (레거시 보존)  
 > **차세대 대체 모듈**: [[FileDataReader]] (`unoUtil.fileDataReader.FileDataReader`)  
-> **상태**: 레거시 유지 관리 (Legacy Active)
+> **상태**: ⚠ 레거시 유지 관리 및 향후 완전 폐기(Deprecated & Scheduled for Removal) 예정
+
+> [!WARNING] ⚠ 패키지 완전 분리 및 레거시 폐기 예고 (Deprecation Notice)
+> 본 `readDataFile` 패키지는 향후 완전히 삭제될 예정입니다.
+> VBB 바이너리 파서(`vbbTopython`) 및 Dewesoft D7D 디코더(`DWDataReader_v5_0_8`)를 포함한 모든 기능이 차세대 독립 패키지인 **[[FileDataReader]] (`unoUtil.fileDataReader`)**로 100% 내재화 및 이전 완료되었습니다.
+> 향후 신규 개발 및 분석 작업에서는 반드시 [[FileDataReader]]를 사용하시기 바랍니다.
 
 ---
 
